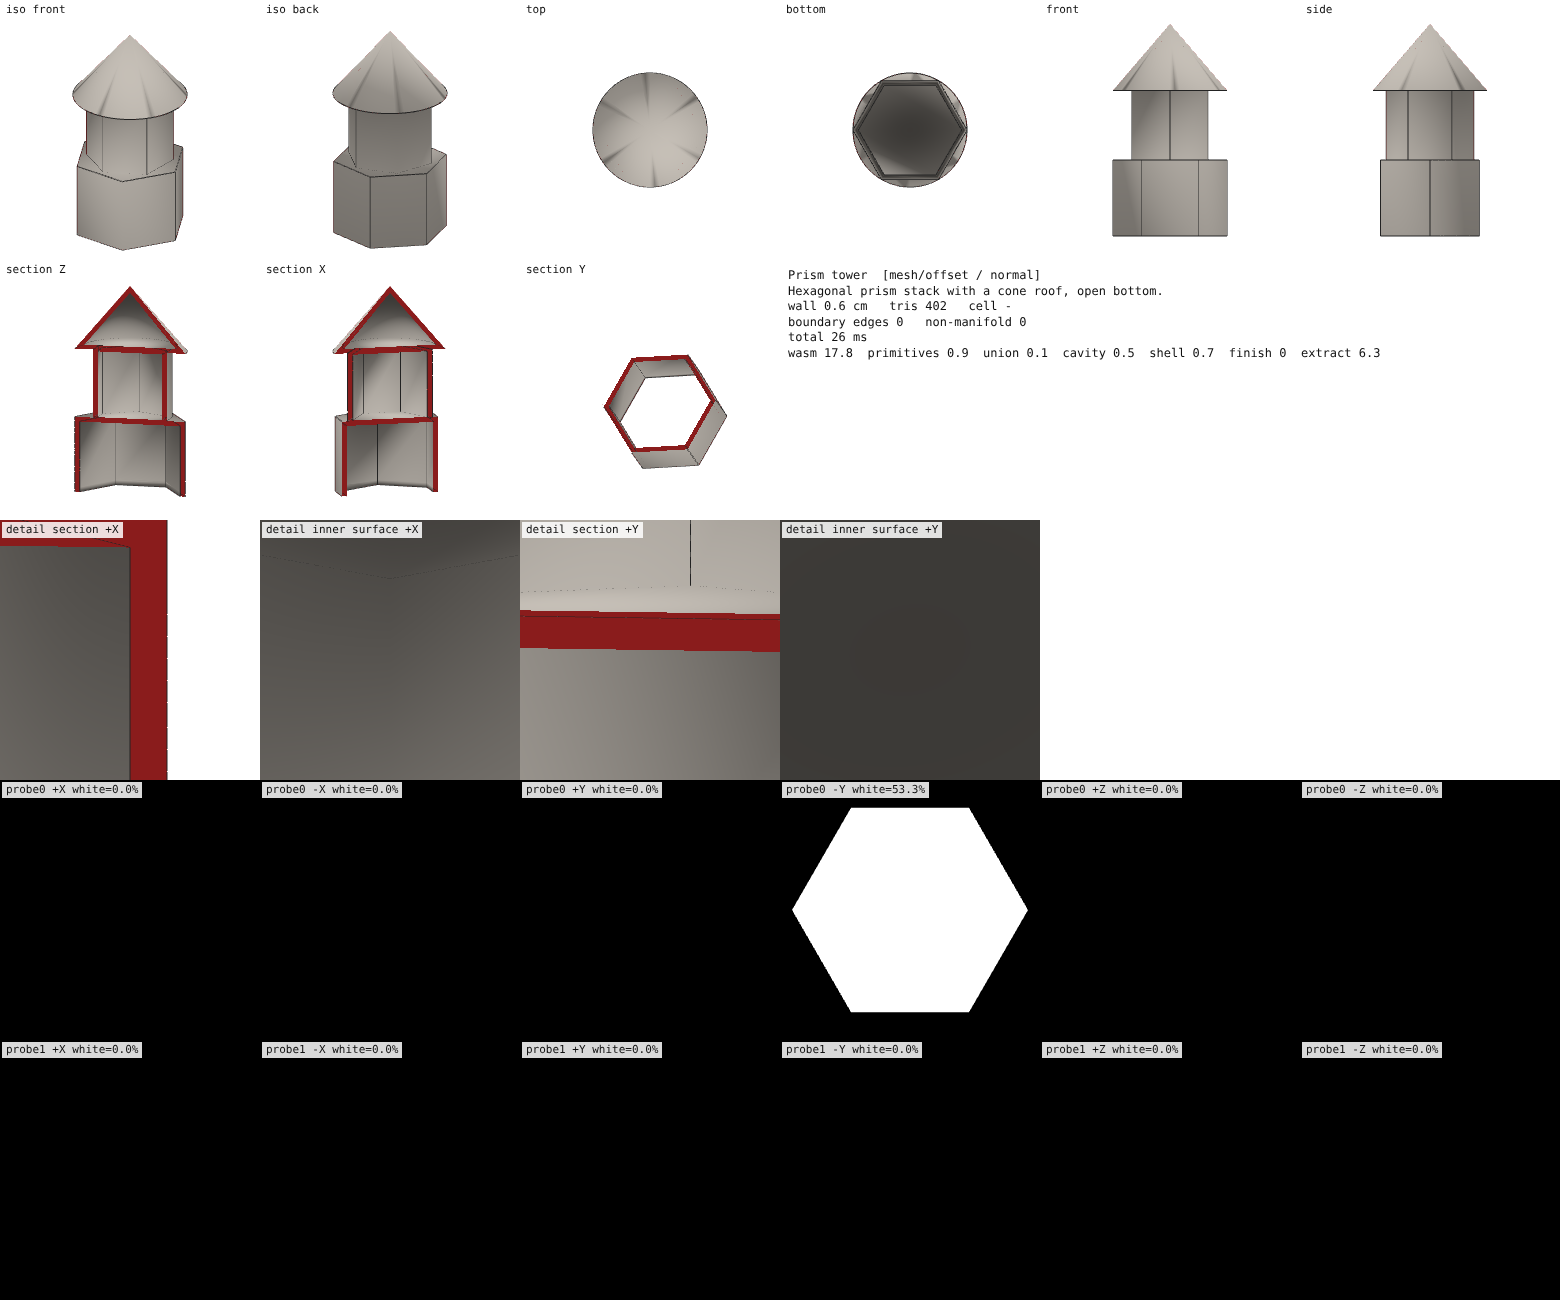
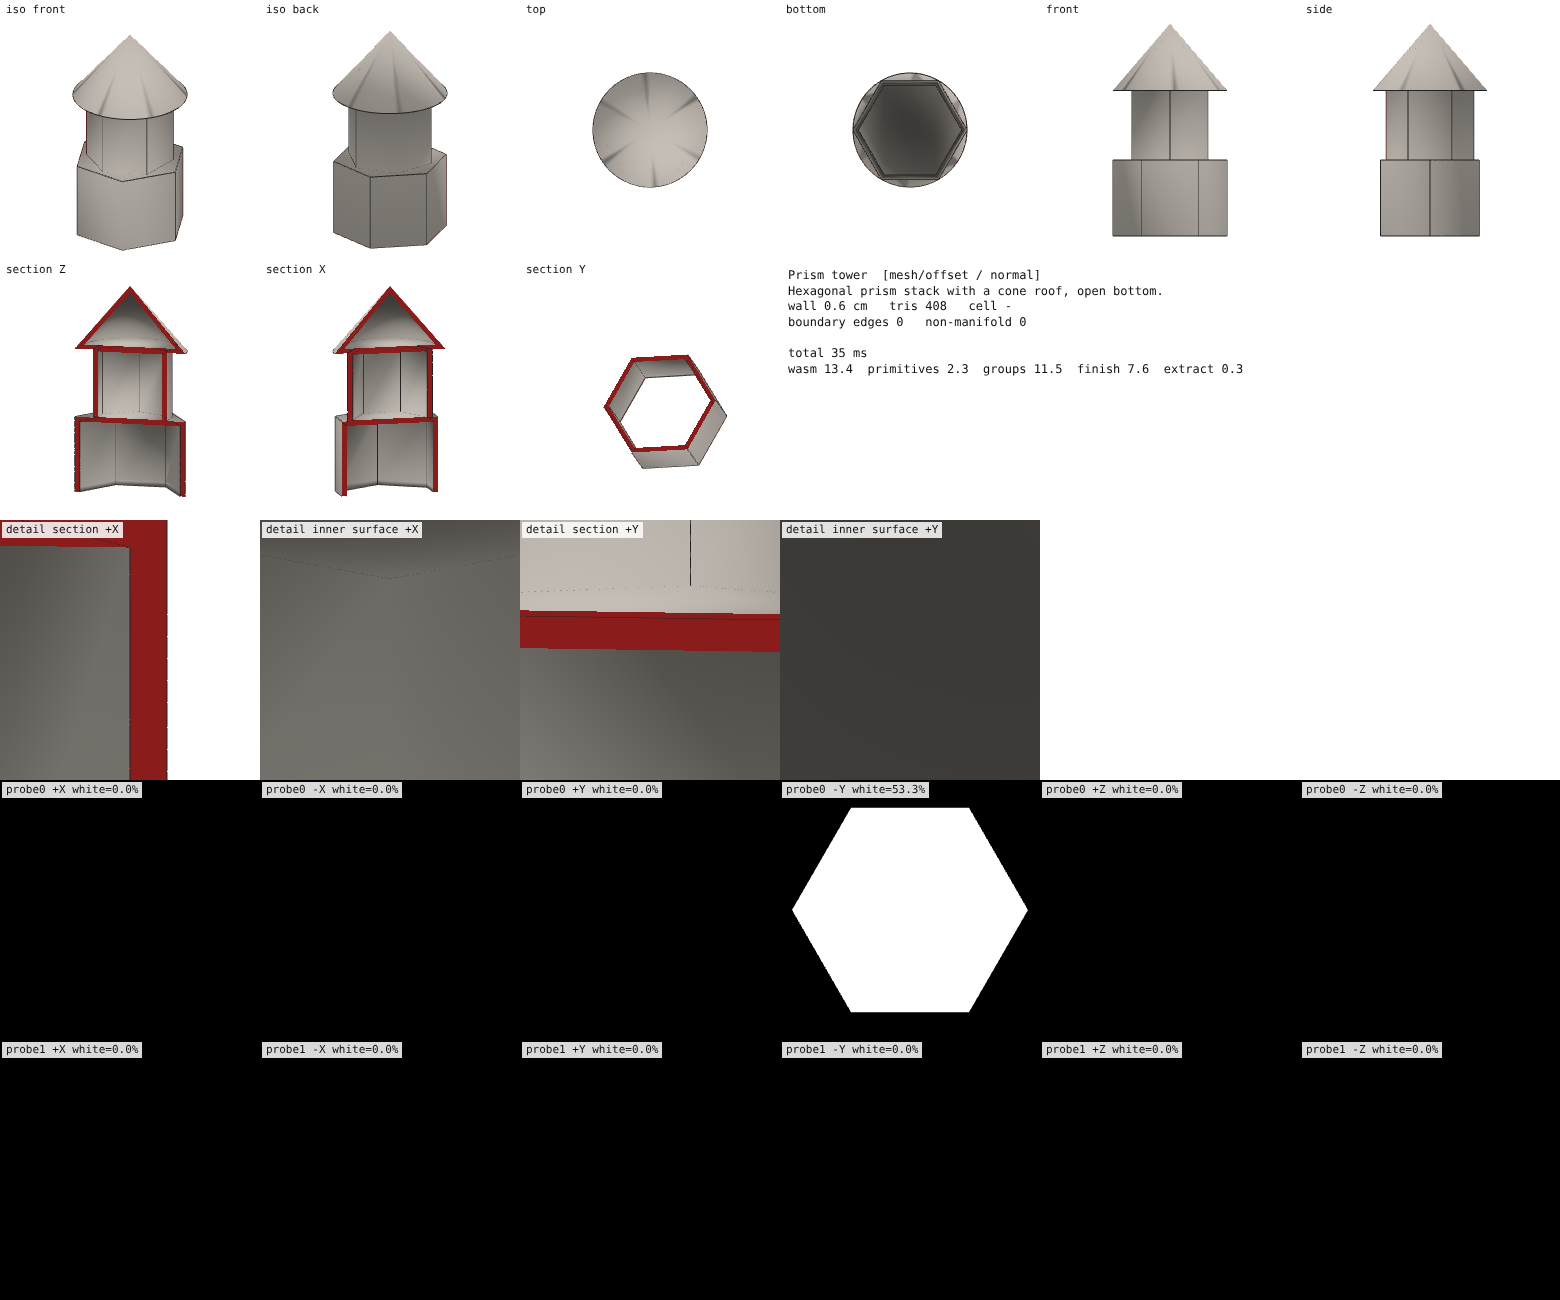
Prism: separate bottom/top radius (pyramids, flares) in both kernels; fix SDF polygon orientation and mesh top scale
Claude-Session: https://claude.ai/code/session_01XfAzbCktNZZJyUAp3dgteA

diff --git a/src/engine/primitives.ts b/src/engine/primitives.ts
@@ -28,6 +28,8 @@ export interface CompiledObject {
   profile?: SampledProfile;
   /** Extrusion-family primitives: convex polygon in the XZ plane + height along Y. */
   extrusion?: { poly: Float64Array; h: number };
+  /** Prism: regular n-gon frustum (bottom/top circumradius). */
+  frustum?: { n: number; r1: number; r2: number; h: number };
 }
 
 const tmp: Vec3 = [0, 0, 0];
@@ -105,6 +107,41 @@ export function revolveOutline(type: PrimitiveType, p: SceneObject['params'], se
   }
 }
 
+/** Plane geometry of a regular n-gon frustum along Y (sides numbered as faces side0..). */
+export function prismFrustum(n: number, r1: number, r2: number, h: number) {
+  const hh = h / 2, c = Math.cos(Math.PI / n);
+  const ap1 = r1 * c, ap2 = r2 * c;
+  const L = Math.hypot(h, ap1 - ap2) || 1;
+  const an = Math.PI / n;
+  // signed distance to the side plane whose outward normal has angle 'a' in XZ
+  const planeAt = (u: number, y: number) => ((u - ap1) * h + (y + hh) * (ap1 - ap2)) / L;
+  const sideDist = (x: number, y: number, z: number) => {
+    const a = Math.atan2(z, x);
+    // side normals point at angles (2k+1)*an; b = angle from the nearest one
+    const b = (((a % (2 * an)) + 2 * an) % (2 * an)) - an;
+    return planeAt(Math.hypot(x, z) * Math.cos(b), y);
+  };
+  return {
+    sideDist,
+    sdf: (x: number, y: number, z: number) => Math.max(sideDist(x, y, z), y - hh, -y - hh),
+    sideIndex: (x: number, z: number) => {
+      const a = Math.atan2(z, x);
+      return ((Math.round(a / (2 * an) - 0.5 + 1) % n) + n) % n;
+    },
+    /** depth inside, to side i only */
+    sideDepth: (i: number, x: number, y: number, z: number) => {
+      const a = (2 * Math.PI * (i - 0.5)) / n;
+      return -planeAt(x * Math.cos(a) + z * Math.sin(a), y);
+    },
+    sidePlane: (i: number): { n: Vec3; p: Vec3 } => {
+      const a = (2 * Math.PI * (i - 0.5)) / n;
+      const ny = (ap1 - ap2) / L, nr = h / L;
+      const apm = (ap1 + ap2) / 2;
+      return { n: [Math.cos(a) * nr, ny, Math.sin(a) * nr], p: [Math.cos(a) * apm, 0, Math.sin(a) * apm] };
+    },
+  };
+}
+
 function extrudeSDF(d2: number, y: number, hh: number): number {
   const wx = d2, wy = Math.abs(y) - hh;
   const ox = Math.max(wx, 0), oy = Math.max(wy, 0);
@@ -124,6 +161,7 @@ export function compileObject(obj: SceneObject): CompiledObject {
   const lb = emptyAABB();
   let profile: SampledProfile | undefined;
   let extrusion: CompiledObject['extrusion'];
+  let frustum: CompiledObject['frustum'];
 
   switch (obj.type) {
     case 'sphere': {
@@ -209,29 +247,30 @@ export function compileObject(obj: SceneObject): CompiledObject {
       break;
     }
     case 'prism': {
-      const n = Math.max(3, Math.round(p.n!)), r = p.r!, hh = p.h! / 2;
-      const poly = regularPolygon(n, r);
-      const apothem = r * Math.cos(Math.PI / n);
-      sdfLocal = (x, y, z) => extrudeSDF(polygonSDF(poly, n, x, z).d, y, hh);
+      // Regular n-gon frustum: bottom circumradius r, top circumradius r2 (0 = point,
+      // larger = flared). A convex polytope, so its SDF is the max of its planes
+      // (exact inside and on the surface; a lower bound outside near edges).
+      const n = Math.max(3, Math.round(p.n!)), r = p.r!, r2 = p.r2 ?? p.r!, hh = p.h! / 2;
+      const fr = prismFrustum(n, r, r2, p.h!);
+      sdfLocal = (x, y, z) => fr.sdf(x, y, z);
       faceAtLocal = (x, y, z) => {
-        const q = polygonSDF(poly, n, x, z);
-        const side = Math.abs(q.d) * Math.min(scale[0], scale[2]);
+        const sxz = Math.min(scale[0], scale[2]);
+        const side = Math.abs(fr.sideDist(x, y, z)) * sxz;
         const top = Math.abs(hh - y) * scale[1], bot = Math.abs(hh + y) * scale[1];
-        if (side <= top && side <= bot) return `side${(q.seg + 1) % n}`;
+        const hasTop = r2 > 1e-6, hasBot = r > 1e-6;
+        if ((!hasTop || side <= top) && (!hasBot || side <= bot)) return `side${fr.sideIndex(x, z)}`;
+        if (!hasBot) return 'top';
+        if (!hasTop) return 'bottom';
         return top < bot ? 'top' : 'bottom';
       };
       faces = [
-        { id: 'top', label: 'Top', plane: { n: [0, 1, 0], p: [0, hh, 0] } },
-        { id: 'bottom', label: 'Bottom', plane: { n: [0, -1, 0], p: [0, -hh, 0] } },
+        ...(r2 > 1e-6 ? [{ id: 'top', label: 'Top', plane: { n: [0, 1, 0] as Vec3, p: [0, hh, 0] as Vec3 } }] : []),
+        ...(r > 1e-6 ? [{ id: 'bottom', label: 'Bottom', plane: { n: [0, -1, 0] as Vec3, p: [0, -hh, 0] as Vec3 } }] : []),
       ];
-      for (let i = 0; i < n; i++) {
-        // side i spans polygon vertices i-1 -> i (matching polygonSDF's seg = j)
-        const a = (2 * Math.PI * (i - 0.5)) / n;
-        const nx = Math.cos(a), nz = Math.sin(a);
-        faces.push({ id: `side${i}`, label: `Side ${i + 1}`, plane: { n: [nx, 0, nz], p: [nx * apothem, 0, nz * apothem] } });
-      }
-      extrusion = { poly, h: p.h! };
-      growAABB(lb, -r, -hh, -r); growAABB(lb, r, hh, r);
+      for (let i = 0; i < n; i++) faces.push({ id: `side${i}`, label: `Side ${i + 1}`, plane: fr.sidePlane(i) });
+      frustum = { n, r1: r, r2, h: p.h! };
+      const rm = Math.max(r, r2);
+      growAABB(lb, -rm, -hh, -rm); growAABB(lb, rm, hh, rm);
       break;
     }
     case 'revolve': {
@@ -258,7 +297,7 @@ export function compileObject(obj: SceneObject): CompiledObject {
   const c: CompiledObject = {
     obj, rot, pos: [...t.position] as Vec3, scale, minScale: Math.min(scale[0], scale[1], scale[2]),
     sdfLocal: sdfLocal!, faceAtLocal: faceAtLocal!, faces: faces!, localBounds: lb, worldBounds: emptyAABB(),
-    profile, extrusion,
+    profile, extrusion, frustum,
   };
   const w: Vec3 = [0, 0, 0];
   for (let i = 0; i < 8; i++) {

diff --git a/src/app/raymarch.ts b/src/app/raymarch.ts
@@ -72,14 +72,6 @@ float sdCone2(vec2 q, float r, float hh) {
   bool inside = q.y > -hh && q.y < hh && q.x < r * (hh - q.y) / (2.0 * hh);
   return inside ? -d : d;
 }
-float sdNgon(vec2 p, float r, float n) {
-  float an = 3.14159265 / n;
-  float a = atan(p.y, p.x);
-  float b = mod(a - an, 2.0 * an) - an;
-  vec2 v = length(p) * vec2(cos(b), abs(sin(b)));
-  float ap = r * cos(an), hw = r * sin(an);
-  return length(v - vec2(ap, min(v.y, hw))) * sign(v.x - ap);
-}
 float sdPin(vec3 p, vec3 a, vec3 b, float r) {
   vec3 ba = b - a, pa = p - a;
   float baba = dot(ba, ba), paba = dot(pa, ba);
@@ -103,6 +95,21 @@ ${range(MAX_PROFILES).map((i) => `  if (slot == ${i}) return profileLookup(uProf
   return 1e5;
 }
 bool bit(int mask, int n) { return ((mask >> n) & 1) == 1; }
+// Regular n-gon frustum along Y: P = (n, bottom radius, half height, top radius).
+// Signed distance to the side plane at angle 'a' (outward normal), from (u, y)
+// where u is the coordinate along that normal.
+float frustumSide(float u, float y, vec4 P) {
+  float c = cos(3.14159265 / P.x);
+  float ap1 = P.y * c, ap2 = P.w * c, h = 2.0 * P.z;
+  return ((u - ap1) * h + (y + P.z) * (ap1 - ap2)) / length(vec2(h, ap1 - ap2));
+}
+float sdFrustum(vec3 q, vec4 P) {
+  float an = 3.14159265 / P.x;
+  // side normals point at angles (2k+1)*an; b = angle from the nearest one
+  float b = mod(atan(q.z, q.x), 2.0 * an) - an;
+  float side = frustumSide(length(q.xz) * cos(b), q.y, P);
+  return max(side, abs(q.y) - P.z);
+}
 
 float sdLocal(vec3 q, vec4 P, int type, int slot) {
   if (type == 0) return length(q) - P.x;
@@ -111,7 +118,7 @@ float sdLocal(vec3 q, vec4 P, int type, int slot) {
   if (type == 3) return sdCone2(vec2(length(q.xz), q.y), P.x, P.y);
   if (type == 4) return length(vec2(length(q.xz) - P.x, q.y)) - P.y;
   if (type == 5) return length(vec3(q.x, q.y - clamp(q.y, -P.y, P.y), q.z)) - P.x;
-  if (type == 6) return extrude(sdNgon(q.xz, P.y, P.x), q.y, P.z);
+  if (type == 6) return sdFrustum(q, P);
   return profile(slot, vec2(length(q.xz), q.y), 0);
 }
 float sdObj(int i, vec3 p) {
@@ -156,7 +163,7 @@ float holeDepth(int i, vec3 p) {
       if (float(k) >= n) break;
       if (bit(mask, 2 + k)) continue;
       float a = 6.2831853 * (float(k) - 0.5) / n;
-      d = min(d, (P.y * cos(3.14159265 / n) - dot(q.xz, vec2(cos(a), sin(a)))) * min(S.x, S.z));
+      d = min(d, -frustumSide(dot(q.xz, vec2(cos(a), sin(a))), q.y, P) * min(S.x, S.z));
     }
     return d;
   }
@@ -517,7 +524,7 @@ export class SdfRenderer {
         case 'box': data[k3] = q.x! / 2; data[k3 + 1] = q.y! / 2; data[k3 + 2] = q.z! / 2; break;
         case 'cylinder': case 'cone': case 'capsule': data[k3] = q.r!; data[k3 + 1] = q.h! / 2; break;
         case 'torus': data[k3] = q.R!; data[k3 + 1] = q.r!; break;
-        case 'prism': data[k3] = Math.min(12, Math.max(3, Math.round(q.n!))); data[k3 + 1] = q.r!; data[k3 + 2] = q.h! / 2; break;
+        case 'prism': data[k3] = Math.min(12, Math.max(3, Math.round(q.n!))); data[k3 + 1] = q.r!; data[k3 + 2] = q.h! / 2; data[k3 + 3] = q.r2 ?? q.r!; break;
         default: break;
       }
       const k4 = (i * ROWS + 4) * 4;

diff --git a/src/engine/meshKernel.ts b/src/engine/meshKernel.ts
@@ -136,7 +136,54 @@ export async function buildMeshKernel(doc: SceneDoc, quality: Quality): Promise<
     };
   };
 
+  // Prism: regular n-gon frustum. Its inward offset is again a frustum (each plane
+  // moved in by t), computed exactly in world units.
+  const frustumFrom = (c: CompiledObject, f: NonNullable<CompiledObject['frustum']>): Built => {
+    const [sx, sy, sz] = c.scale;
+    const uniformXZ = Math.abs(sx - sz) < 1e-6;
+    const k = uniformXZ ? sx : Math.sqrt(sx * sz);
+    const mat = uniformXZ ? placeMat(c) : placeMat(c, sx / k, 1, sz / k);
+    const cosA = Math.cos(Math.PI / f.n);
+    const make = (R1: number, R2: number, yb: number, yt: number) => {
+      const H = yt - yb;
+      if (H <= 1e-6 || Math.max(R1, R2) <= 1e-6) return null;
+      const big = Math.max(R1, R2), small = Math.min(R1, R2);
+      const pts: [number, number][] = [];
+      for (let i = 0; i < f.n; i++) {
+        const a = (2 * Math.PI * i) / f.n;
+        pts.push([big * Math.cos(a), -big * Math.sin(a)]);
+      }
+      const cs = keep(new CrossSection([ccw(pts)], 'Positive'));
+      let m = keep(keep(cs.extrude(H, 0, 0, [small / big, small / big])).translate([0, 0, -H / 2]));
+      if (R1 < R2) m = keep(m.mirror([0, 0, 1])); // wide end on top
+      m = keep(toY(m).translate([0, (yb + yt) / 2, 0]));
+      return keep(m.transform(mat as never));
+    };
+    const R1 = f.r1 * k, R2 = f.r2 * k, H = f.h * sy;
+    const solid = make(R1, R2, -H / 2, H / 2)!;
+    return {
+      solid,
+      approx: !uniformXZ,
+      cavity: (delta) => {
+        const t = -delta; // inward offset
+        const A1 = R1 * cosA, A2 = R2 * cosA, L = Math.hypot(H, A1 - A2);
+        const u = (y: number) => A1 + ((A2 - A1) * (y + H / 2)) / H - (t * L) / H;
+        let yb = -H / 2 + t, yt = H / 2 - t;
+        if (yt <= yb) return null;
+        let ab = u(yb), at = u(yt);
+        if (ab <= 0 && at <= 0) return null;
+        // clip at the apex where the offset sides meet
+        if (ab < 0 || at < 0) {
+          const y0 = -H / 2 + (((t * L) / H - A1) * H) / (A2 - A1);
+          if (ab < 0) { yb = y0; ab = 0; } else { yt = y0; at = 0; }
+        }
+        return make(ab / cosA, at / cosA, yb, yt);
+      },
+    };
+  };
+
   const build = (c: CompiledObject): Built => {
+    if (c.frustum) return frustumFrom(c, c.frustum);
     if (c.extrusion) return extrudeFrom(c, c.extrusion.poly, c.extrusion.h);
     const outline = c.obj.type === 'revolve'
       ? Array.from(c.profile!.pts)

diff --git a/src/examples.ts b/src/examples.ts
@@ -270,6 +270,15 @@ export function examples(): Example[] {
     list.push({ id: 'big-pins', title: 'Big holes on a curve', notes: 'Pin holes almost as wide as the cylinder is round: the hole must cut cleanly all the way round.', doc: d, probes: [[0, -2, 0]] });
   }
 
+  list.push({
+    id: 'frustums', title: 'Tapered prisms', notes: 'A hexagonal pyramid (top radius 0) on a flared square prism (top wider than bottom), hollow, open at the bottom.',
+    doc: doc([
+      obj('prism', { n: 4, r: 2.4, r2: 3.6, h: 3 }, { pos: [0, -1.5, 0], holes: ['bottom'] }),
+      obj('prism', { n: 6, r: 2.8, r2: 0, h: 4 }, { pos: [0, 2, 0] }),
+    ], 0.25),
+    probes: [[0, -1, 0]],
+  });
+
   // Scenes are authored small, then scaled to hand size (a vase ~19 cm across).
   // Walls are set per scene in real clay terms; the thin cases stay extreme.
   for (const e of list) {
@@ -288,5 +297,5 @@ const WALLS: Record<string, number> = {
   'open-box': 0.8, 'sphere-cube': 0.8, 'chain-30': 0.6, vase: 0.7, bowl: 0.8, 'cylinder-pins': 0.7,
   'cup-stick': 0.6, 'vase-sticks': 0.6, 'vase-solid-sticks': 0.6, torus: 0.6, lattice: 0.5,
   'vase-thin': 0.2, 'chain-thin': 0.2, transformed: 0.7, 'rotated-box': 0.7, tower: 0.6,
-  'thick-wall': 2.5, 'cut-sphere': 0.7, 'mug-stick': 0.6, 'mug-thin': 0.08, 'two-groups': 0.6, 'big-pins': 0.6,
+  'thick-wall': 2.5, 'cut-sphere': 0.7, 'mug-stick': 0.6, 'mug-thin': 0.08, 'two-groups': 0.6, 'big-pins': 0.6, frustums: 0.6,
 };

diff --git a/src/app/main.ts b/src/app/main.ts
@@ -283,7 +283,7 @@ const PARAMS: Record<PrimitiveType, [string, string, number, number, number][]> 
   cone: [['r', 'Radius', 0.2, 40, 0.1], ['h', 'Height', 0.2, 80, 0.1]],
   torus: [['R', 'Ring', 1, 40, 0.1], ['r', 'Tube', 0.2, 20, 0.1]],
   capsule: [['r', 'Radius', 0.2, 25, 0.1], ['h', 'Length', 0, 80, 0.1]],
-  prism: [['n', 'Sides', 3, 12, 1], ['r', 'Radius', 0.5, 40, 0.1], ['h', 'Height', 0.2, 80, 0.1]],
+  prism: [['n', 'Sides', 3, 12, 1], ['r', 'Bottom radius', 0, 40, 0.1], ['r2', 'Top radius', 0, 40, 0.1], ['h', 'Height', 0.2, 80, 0.1]],
   revolve: [],
 };
 
@@ -326,7 +326,7 @@ function editPanel() {
       ${doc.groups.length > 1 ? `<div class="row">${doc.groups.map((g) => `<button class="face-chip" data-move-group="${g.id}" aria-pressed="${g.id === o.groupId}">${escapeHtml(g.name)}</button>`).join('')}</div>` : ''}
     </div>
     <div class="section"><h3>Shape</h3>
-      ${PARAMS[o.type].map(([k, l, mn, mx, st]) => slider(`p.${k}`, l, (o.params as Record<string, number>)[k], mn, mx, st)).join('')}
+      ${PARAMS[o.type].map(([k, l, mn, mx, st]) => slider(`p.${k}`, l, (o.params as Record<string, number>)[k] ?? (k === 'r2' ? o.params.r! : 0), mn, mx, st)).join('')}
       ${o.type === 'revolve' ? `<button class="btn primary" data-act="edit-profile">Edit profile (${o.params.points?.length ?? 0} points)</button>` : ''}
     </div>
     <div class="section"><h3>Transform</h3>

diff --git a/src/engine/document.ts b/src/engine/document.ts
@@ -38,6 +38,7 @@ export interface PrimitiveParams {
   h?: number; // cylinder, cone, capsule (straight part), prism
   R?: number; // torus major radius (tube radius = r)
   n?: number; // prism sides
+  r2?: number; // prism top circumradius (0 = point)
   points?: ProfilePoint[]; // revolve
 }
 
@@ -99,7 +100,7 @@ export function defaultParams(type: PrimitiveType): PrimitiveParams {
     case 'cone': return { r: 9, h: 18 };
     case 'torus': return { R: 9, r: 3 };
     case 'capsule': return { r: 4.5, h: 12 };
-    case 'prism': return { n: 6, r: 9, h: 15 };
+    case 'prism': return { n: 6, r: 9, r2: 9, h: 15 };
     case 'revolve': return { points: defaultVaseProfile() };
   }
 }
@@ -118,7 +119,7 @@ export function defaultVaseProfile(): ProfilePoint[] {
 export function scaleDoc(d: SceneDoc, k: number): SceneDoc {
   for (const o of d.objects) {
     const p = o.params as Record<string, unknown>;
-    for (const key of ['r', 'x', 'y', 'z', 'h', 'R']) if (typeof p[key] === 'number') p[key] = (p[key] as number) * k;
+    for (const key of ['r', 'r2', 'x', 'y', 'z', 'h', 'R']) if (typeof p[key] === 'number') p[key] = (p[key] as number) * k;
     if (o.params.points) o.params.points = o.params.points.map((q) => ({ ...q, r: q.r * k, y: q.y * k }));
     o.transform.position = o.transform.position.map((v) => v * k) as Vec3;
   }

diff --git a/src/engine/scene.ts b/src/engine/scene.ts
@@ -15,7 +15,7 @@
 
 import type { SceneDoc } from './document';
 import { type AABB, type Vec3, emptyAABB, growAABB } from './math';
-import { type CompiledObject, compileObject, normalToWorld, sdfWorld, toLocal, toWorld } from './primitives';
+import { type CompiledObject, compileObject, normalToWorld, prismFrustum, sdfWorld, toLocal, toWorld } from './primitives';
 
 export interface CompiledPin {
   ax: number; ay: number; az: number; // outside end
@@ -149,16 +149,12 @@ export function holeDepth(c: CompiledObject, holes: Set<string>, x: number, y: n
     }
     case 'prism': {
       const n = Math.max(3, Math.round(p.n!)), hh = p.h! / 2;
-      const ap = p.r! * Math.cos(Math.PI / n);
+      const fr = prismFrustum(n, p.r!, p.r2 ?? p.r!, p.h!);
       const sxz = Math.min(sx, sz);
       let d = Infinity;
       if (!isHole('top')) d = Math.min(d, (hh - ly) * sy);
       if (!isHole('bottom')) d = Math.min(d, (hh + ly) * sy);
-      for (let i = 0; i < n; i++) {
-        if (isHole(`side${i}`)) continue;
-        const a = (2 * Math.PI * (i - 0.5)) / n;
-        d = Math.min(d, (ap - (lx * Math.cos(a) + lz * Math.sin(a))) * sxz);
-      }
+      for (let i = 0; i < n; i++) if (!isHole(`side${i}`)) d = Math.min(d, fr.sideDepth(i, lx, ly, lz) * sxz);
       return d;
     }
     default: {

diff --git a/src/app/viewport.ts b/src/app/viewport.ts
@@ -328,7 +328,7 @@ export function ghostGeometry(o: SceneObject): THREE.BufferGeometry {
   const p = o.params;
   switch (o.type) {
     case 'box': return new THREE.BoxGeometry(p.x, p.y, p.z);
-    case 'prism': return lathe([0, -p.h! / 2, p.r!, -p.h! / 2, p.r!, p.h! / 2, 0, p.h! / 2], Math.max(3, Math.round(p.n!)), Math.PI / 2);
+    case 'prism': return lathe([0, -p.h! / 2, p.r!, -p.h! / 2, p.r2 ?? p.r!, p.h! / 2, 0, p.h! / 2], Math.max(3, Math.round(p.n!)), Math.PI / 2);
     case 'torus': {
       const g = new THREE.TorusGeometry(p.R, p.r, 16, 48);
       g.rotateX(Math.PI / 2);

diff --git a/bench/REPORT.md b/bench/REPORT.md
@@ -34,8 +34,8 @@ Quality: normal. Images: `bench/out/<case>-<kernel>.png`.
 | transformed | mesh | — | — | — | — | — | ERROR: Error: Error creating WebGL context. |
 | rotated-box | sdf | — | — | — | — | — | ERROR: Error: Error creating WebGL context. |
 | rotated-box | mesh | — | — | — | — | — | ERROR: Error: Error creating WebGL context. |
-| tower | sdf | — | — | — | — | — | ERROR: Error: Error creating WebGL context. |
-| tower | mesh | — | — | — | — | — | ERROR: Error: Error creating WebGL context. |
+| tower | sdf | 900 | 141624 | 0 | 0 | 53.5 |  |
+| tower | mesh | 35 | 408 | 0 | 0 | 53.3 |  |
 | thick-wall | sdf | — | — | — | — | — | ERROR: Error: Error creating WebGL context. |
 | thick-wall | mesh | — | — | — | — | — | ERROR: Error: Error creating WebGL context. |
 | cut-sphere | sdf | — | — | — | — | — | ERROR: Error: Error creating WebGL context. |
@@ -46,3 +46,5 @@ Quality: normal. Images: `bench/out/<case>-<kernel>.png`.
 | mug-thin | mesh | — | — | — | — | — | ERROR: Error: Error creating WebGL context. |
 | two-groups | sdf | — | — | — | — | — | ERROR: Error: Error creating WebGL context. |
 | two-groups | mesh | — | — | — | — | — | ERROR: Error: Error creating WebGL context. |
+| frustums | sdf | 1099 | 212592 | 0 | 0 | 53.4 |  |
+| frustums | mesh | 30 | 76 | 0 | 0 | 58.5 |  |
